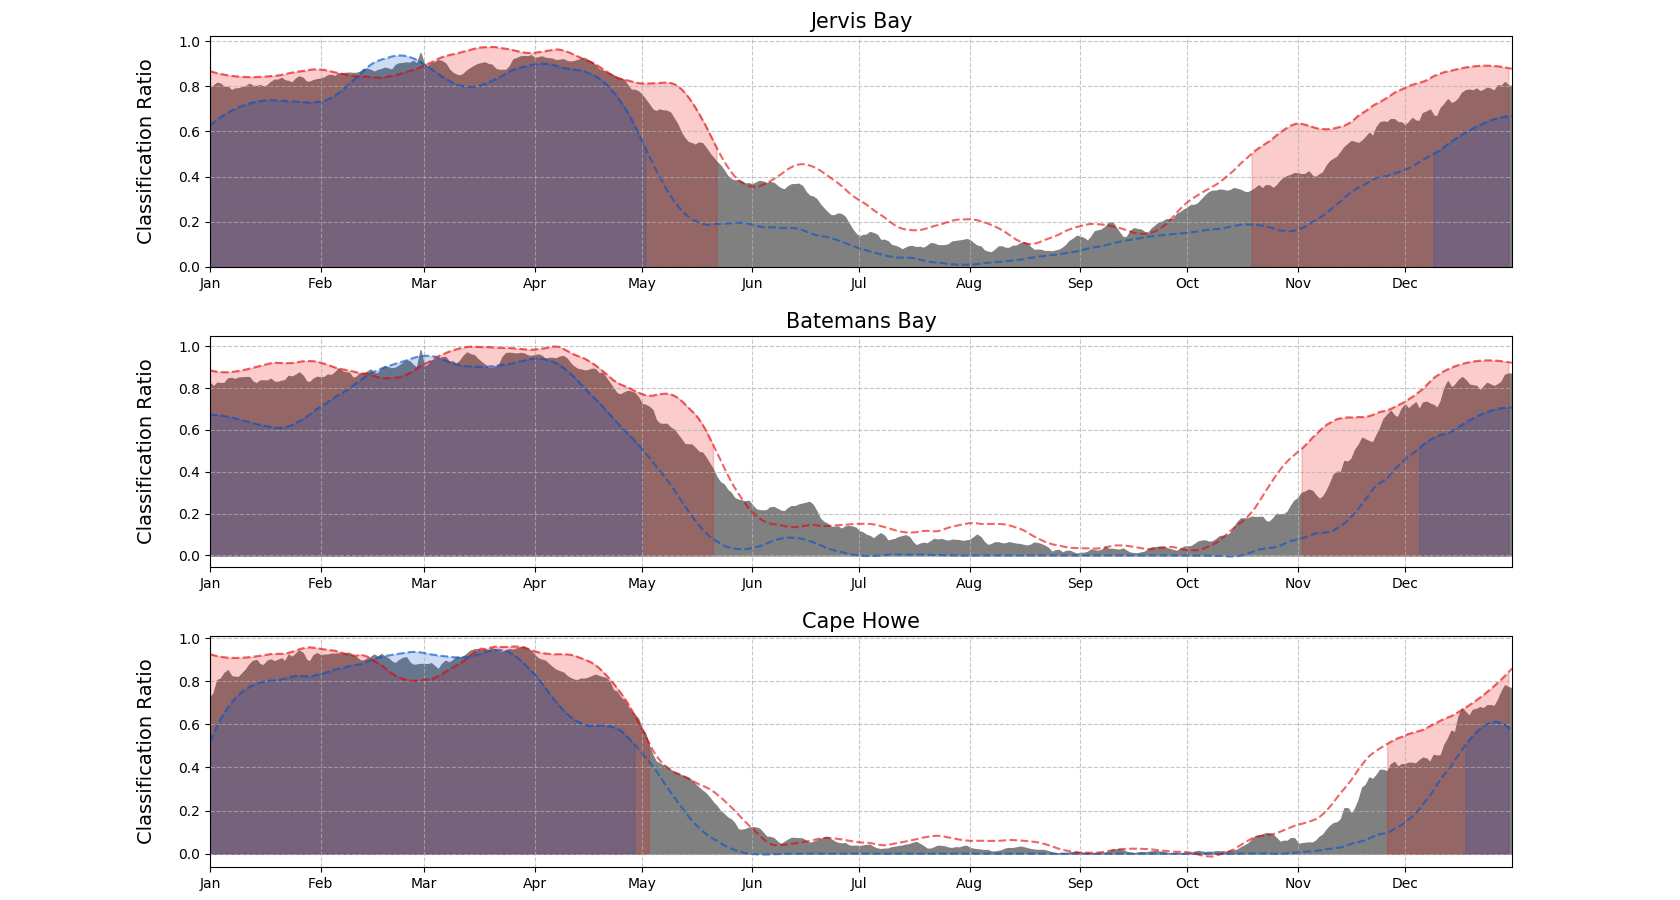
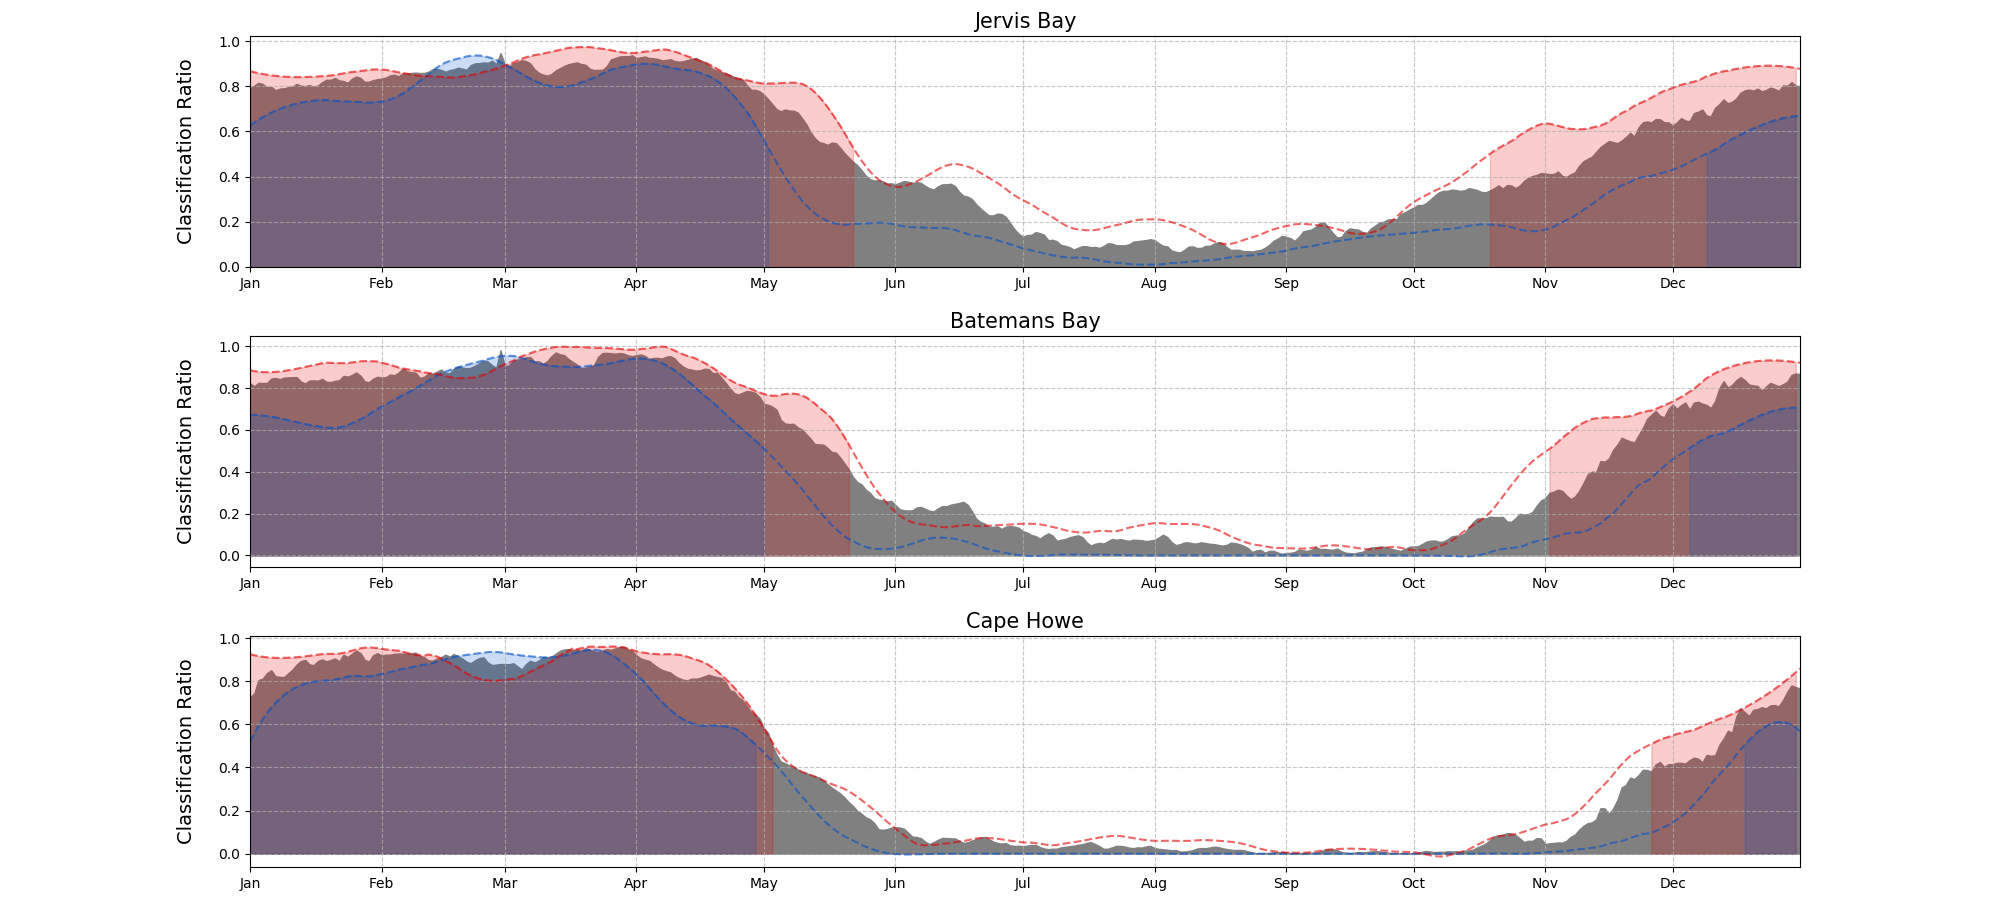
Update seasonality plot

diff --git a/data_visulisation.py b/data_visulisation.py
@@ -191,11 +191,13 @@ def seasonal_change_analysis(df, title, out_fn):
     ax.set_xlim(datetime(2000, 1, 1),datetime(2000, 12, 31))
 
     # report data
-    print('\nAnalysis report for "'+title+'"')
-    print('First 5 years: '+str(round(df1.ratioA.mean(),4))+' ('+str(round(df1.ratioA.mean()*12,4))+' months)')
-    print('Last 5 years: '+str(round(df2.ratioA.mean(),4))+' ('+str(round(df2.ratioA.mean()*12,4))+' months)')
-    print('Difference: '+str(round(df2.ratioA.mean() - df1.ratioA.mean(),4))+' ('+
-        str(round((df2.ratioA.mean() - df1.ratioA.mean())*12,4))+' months)')
+    print('\nAnalysis report for "'+title+'" (days)')
+    print('First 5 years: '+str(len(df1.ratioA[df1.ratioA > 0.5])))
+    print('Last 5 years: '+str(len(df2.ratioA[df2.ratioA > 0.5])))
+    print('Difference: '+str(len(df2.ratioA[df2.ratioA > 0.5]) - len(df1.ratioA[df1.ratioA > 0.5])))
+    print('Mean dominance period length:'+str(len(df_mean.ratioA[df_mean.ratioA > 0.5])))
+    print('Onset difference: '+str(first_crosses[1] - last_crosses[1]))
+    print('End difference: '+str(first_crosses[0] - last_crosses[0]))
 
     # save plot
     print('\nMaking plot..')
